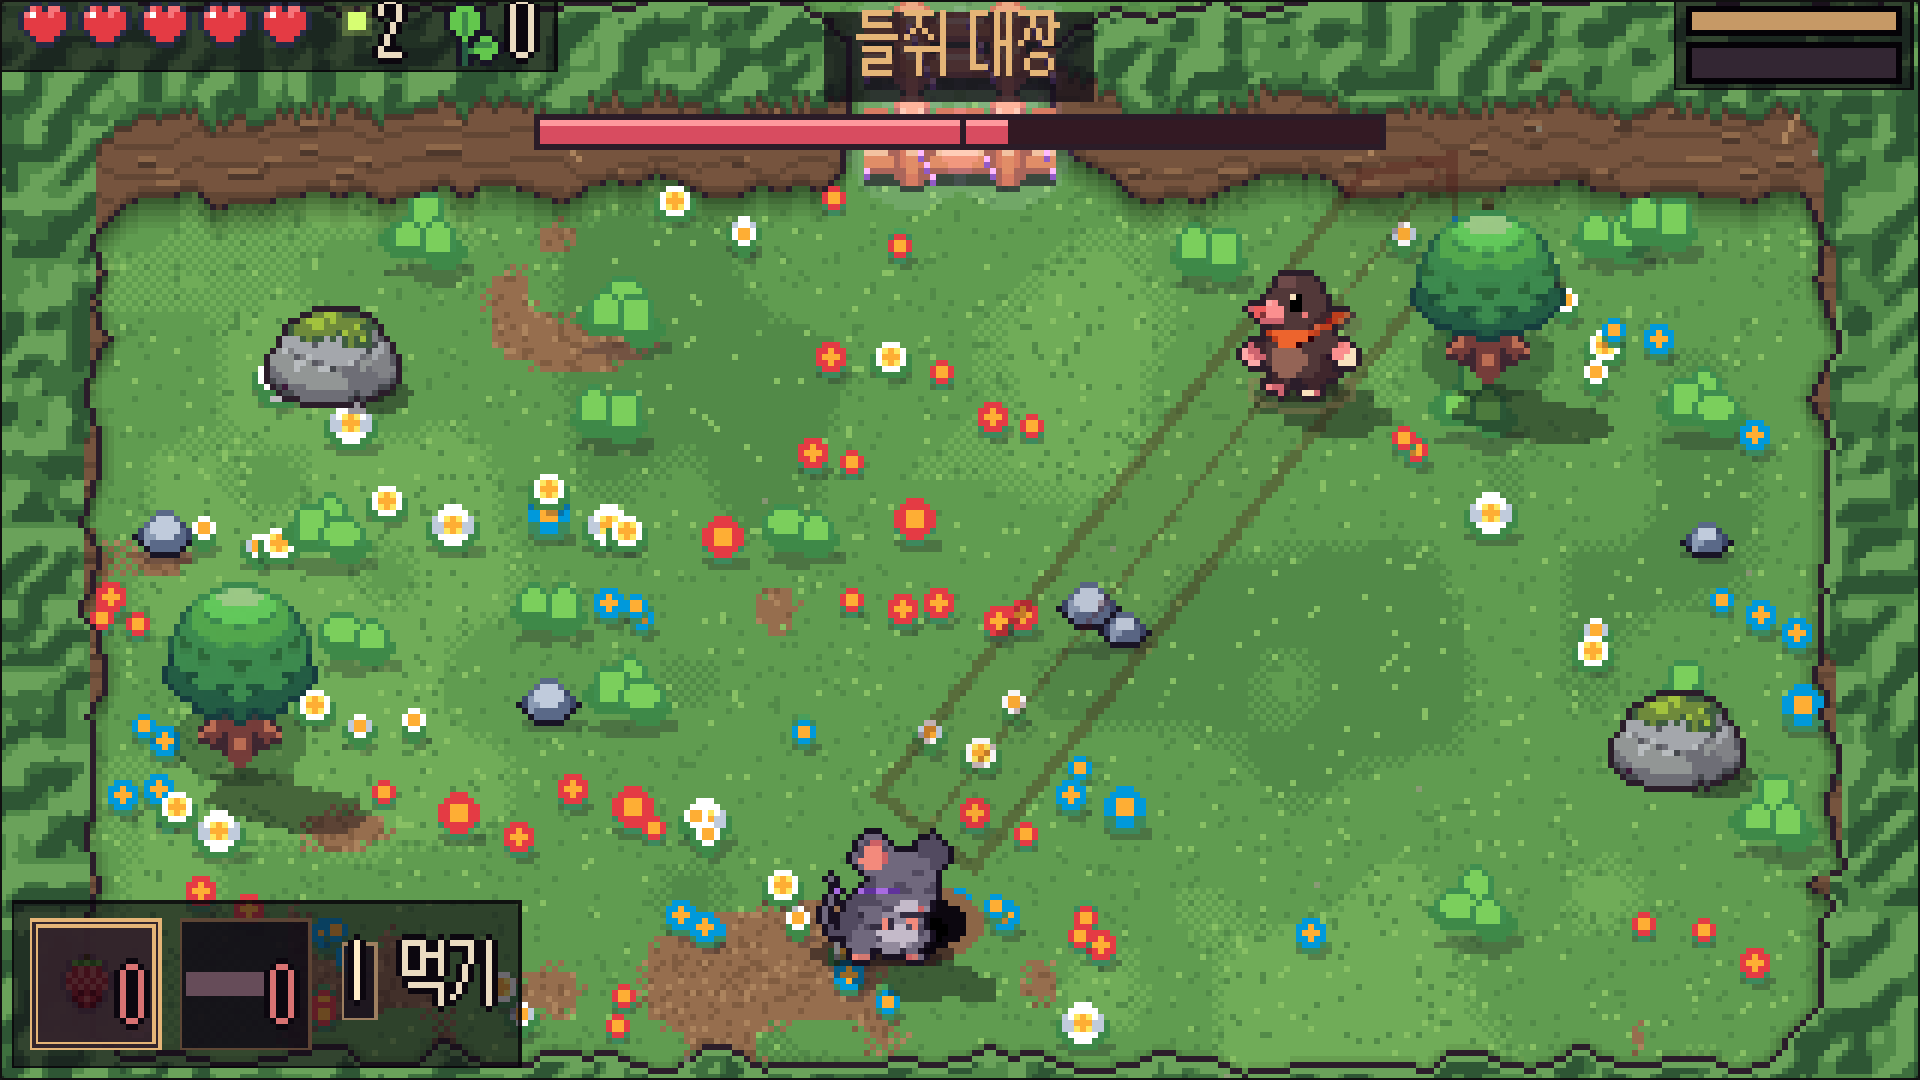
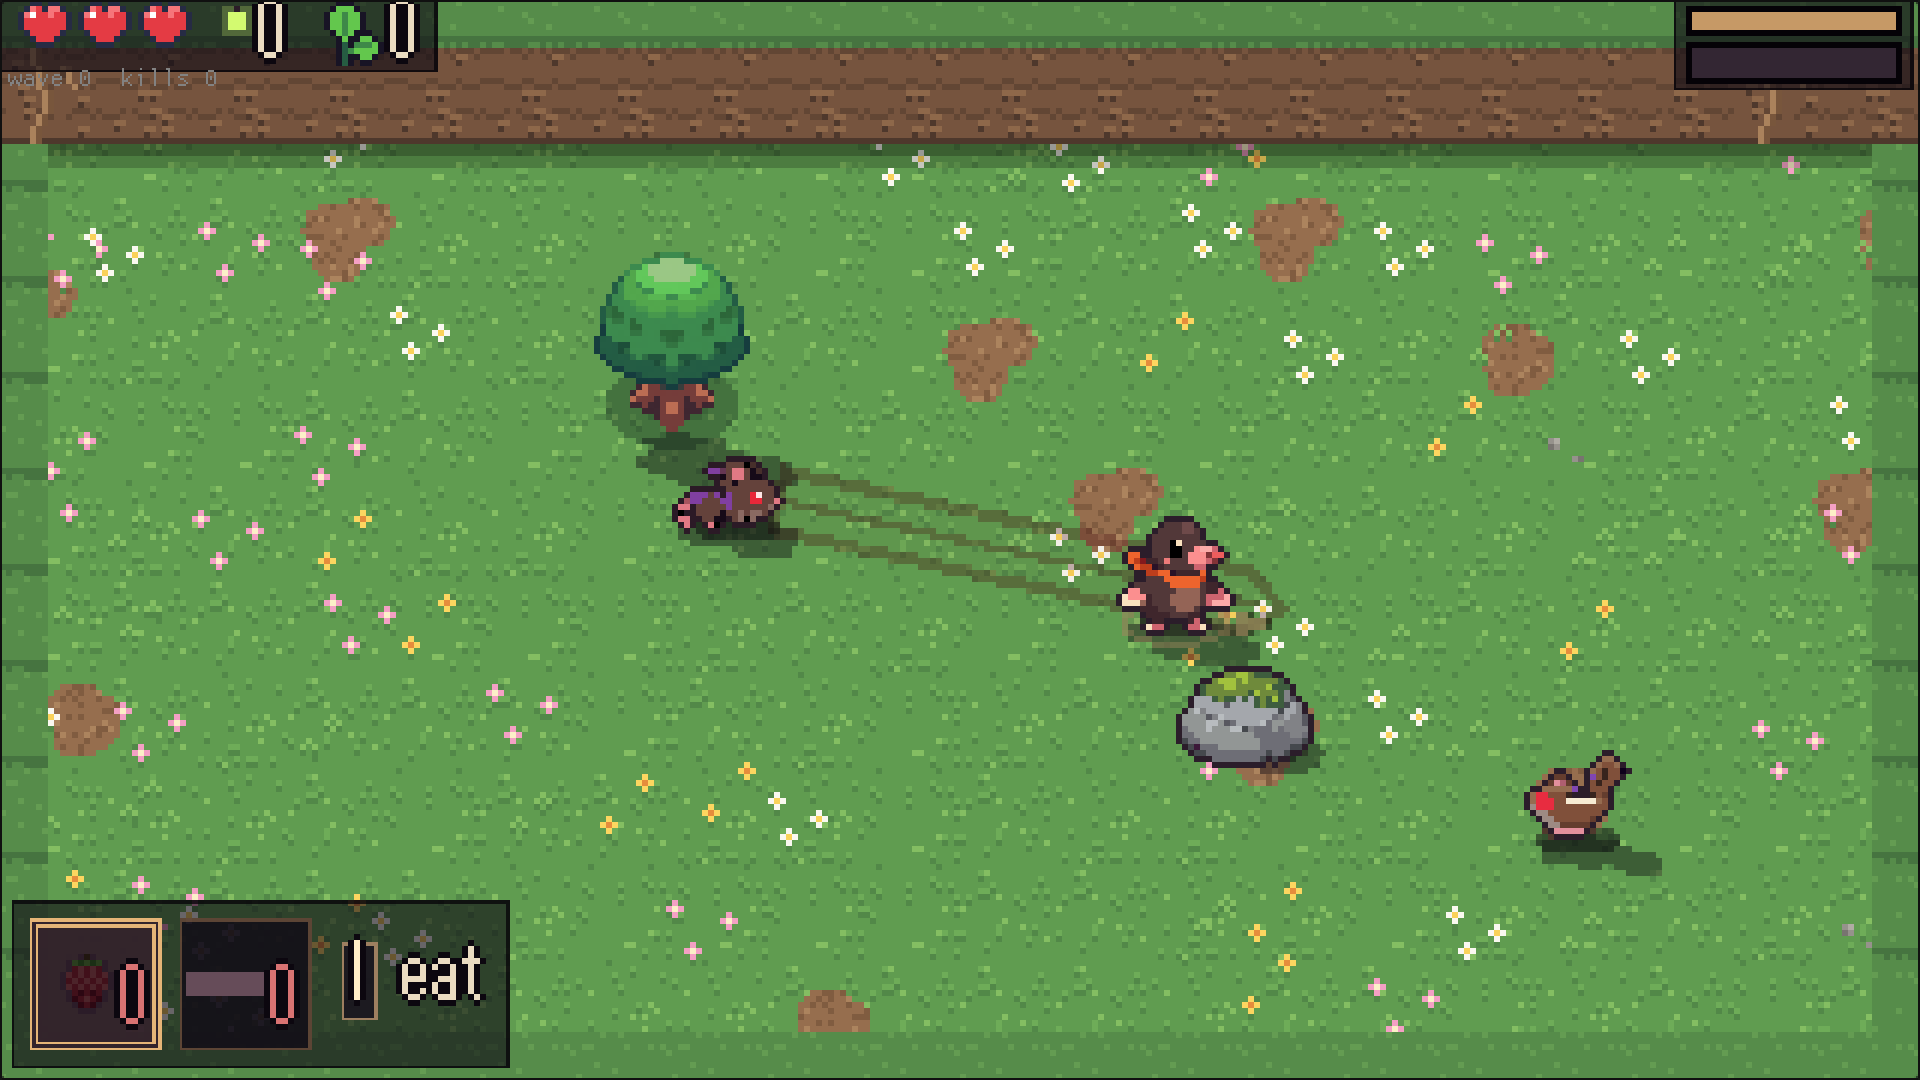
Epic 캐러셀 그림을 영어 화면으로(검토 반려 2026-11-13: 영어가 아닌 글): tools/store/shots_en.js(en-US로 개발 시나리오를 찍는다, 장면 이름으로 고름), 고른 원본 docs/epic/shots 여섯, epic_media.py가 그것으로 캐러셀(풀밭·넓은 방·콩이·마을·물길 굴·도토)

diff --git a/tools/store/shots_en.js b/tools/store/shots_en.js
@@ -1,0 +1,130 @@
+// 상점 캐러셀용 영어 스크린숏(Epic 검토 2026-11-13: 영어로 읽히지 않는 글이 든 캐러셀 그림은 받지 않는다).
+// 공식 페이지 스크린숏(tools/site/shots.js)은 한국어 화면이라 상점에 못 쓴다 — 같은 장면을 영어(en-US)로 다시 찍는다.
+//   cargo build --release --target wasm32-unknown-unknown      # 개발 기능(기본) + 팩(assets/vendor)이 있는 빌드
+//   python3 tools/web/assemble.py dist local dev
+//   node tools/store/shots_en.js dist <저장 폴더>
+// 장면마다 몇 장씩 찍는다. 고른 것을 docs/epic/shots/<이름>.png(960×540 = 게임 화면 3배)로 옮기고
+// python3 tools/store/epic_media.py 로 캐러셀(×2 = 1920×1080)을 만든다.
+// 개발 목록은 이름으로 고른다(src/scenario.rs LIST — 묶음 탭과 그 안의 자리를 읽는다, tools/test/smoke.js와 같은 방식).
+const { chromium } = require('playwright');
+const http = require('http');
+const fs = require('fs');
+const path = require('path');
+
+const DIST = path.resolve(process.argv[2] || 'dist');
+const OUT = path.resolve(process.argv[3] || 'shots-en');
+const PORT = 8131;
+const LOCALE = 'en-US';
+const MIME = { '.html': 'text/html; charset=utf-8', '.js': 'text/javascript', '.wasm': 'application/wasm', '.png': 'image/png',
+  '.ttf': 'font/ttf', '.mp3': 'audio/mpeg', '.ogg': 'audio/ogg', '.txt': 'text/plain; charset=utf-8',
+  '.webmanifest': 'application/manifest+json' };
+const base = 'nail-profile 1\nflag tutorial\nflag bori\nflag line.village_intro\n';
+// 다 자란 마을: 이웃 모두, 깬 수 4(잎 단계 4), 꾸미기 전부(tools/site/shots.js와 같은 기록).
+const full = base + 'flag momo\nflag doto_memory\nflag kongi\nflag half_ending\ncount clears.Mole 4\ncount momo_wins 3\n' +
+  [0, 1, 2, 3, 4, 5, 6, 7, 8].map((i) => `flag decor.${i}\n`).join('') + 'count glowbugs_banked 300\n';
+
+const DEV = (() => {
+  const src = fs.readFileSync(path.join(__dirname, '..', '..', 'src', 'scenario.rs'), 'utf8');
+  const all = src.slice(src.indexOf('pub const ALL'), src.indexOf('];', src.indexOf('pub const ALL')));
+  const cats = [...all.matchAll(/Cat::(\w+)/g)].map((m) => m[1]);
+  const list = src.slice(src.indexOf('pub const LIST'));
+  const seen = {}; const out = {};
+  for (const m of list.matchAll(/cat: Cat::(\w+),\s*name: "(.*?)"/g)) {
+    const c = cats.indexOf(m[1]); seen[c] = (seen[c] || 0); out[m[2]] = [c, seen[c]++];
+  }
+  return out;
+})();
+
+function serve() {
+  return new Promise((resolve) => {
+    const srv = http.createServer((req, res) => {
+      let p = decodeURIComponent(req.url.split('?')[0]);
+      if (p.endsWith('/')) p += 'index.html';
+      const file = path.join(DIST, p);
+      if (!file.startsWith(DIST) || !fs.existsSync(file) || fs.statSync(file).isDirectory()) { res.writeHead(404); res.end(); return; }
+      res.writeHead(200, { 'Content-Type': MIME[path.extname(file)] || 'application/octet-stream', 'Content-Length': fs.statSync(file).size });
+      fs.createReadStream(file).pipe(res);
+    });
+    srv.listen(PORT, '127.0.0.1', () => resolve(srv));
+  });
+}
+
+async function open(browser, prof) {
+  const ctx = await browser.newContext({ viewport: { width: 960, height: 540 }, locale: LOCALE });
+  await ctx.addInitScript((p) => {
+    try { if (!sessionStorage.getItem('x')) { sessionStorage.setItem('x', 1); localStorage.setItem('nail.profile', p); } } catch (e) {}
+  }, prof);
+  const page = await ctx.newPage();
+  await page.goto(`http://127.0.0.1:${PORT}/`, { waitUntil: 'load' });
+  await page.waitForFunction(() => document.getElementById('loading').classList.contains('done'), null, { timeout: 60000 });
+  await page.waitForTimeout(800);
+  await page.focus('#glcanvas');
+  const key = async (k, ms = 300) => { await page.keyboard.press(k); await page.waitForTimeout(ms); };
+  const hold = async (k, ms) => { await page.keyboard.down(k); await page.waitForTimeout(ms); await page.keyboard.up(k); await page.waitForTimeout(150); };
+  const shot = (name) => page.screenshot({ path: path.join(OUT, `${name}.png`) });
+  return { ctx, page, key, hold, shot };
+}
+
+// 타이틀 → 개발(첫 항목에서 위로 = 마지막 항목) → 묶음 탭(오른쪽) → 그 안의 줄(아래).
+async function dev(browser, name, prof = base, wait = 1800) {
+  const at = DEV[name];
+  if (!at) throw new Error(`개발 목록에 없다: ${name}`);
+  const s = await open(browser, prof);
+  await s.key('Enter', 600);
+  await s.key('ArrowUp', 250);
+  await s.key('Enter', 700);
+  for (let i = 0; i < at[0]; i++) await s.key('ArrowRight', 80);
+  for (let i = 0; i < at[1]; i++) await s.key('ArrowDown', 60);
+  await s.key('Enter', wait);
+  return s;
+}
+
+// 공격을 세 번씩 누르며 여러 장(예고·타격이 보이는 칸을 고른다).
+async function swings(s, name, n = 6) {
+  for (let i = 0; i < n; i++) {
+    await s.key('j', 90); await s.key('j', 90); await s.key('j', 40);
+    await s.shot(`${name}_${i}`); await s.page.waitForTimeout(300);
+  }
+}
+
+// 걸어 들어가 적이 다가오게 한 뒤 몇 장.
+async function walk(s, name, dir = 'ArrowRight') {
+  await s.hold(dir, 400); await s.page.waitForTimeout(1200);
+  for (let i = 0; i < 4; i++) { await s.shot(`${name}_${i}`); await s.page.waitForTimeout(900); }
+}
+
+(async () => {
+  fs.mkdirSync(OUT, { recursive: true });
+  const srv = await serve();
+  const browser = await chromium.launch({ args: ['--use-angle=swiftshader', '--enable-unsafe-swiftshader', '--ignore-gpu-blocklist'] });
+  const scenes = [
+    ['meadow', '환경: 꽃 핀 입구', walk],
+    ['roots', '실타래 굴: 뿌리', walk],
+    ['silk', '실타래 굴: 흰 실', walk],
+    ['water', '환경: 물길 굴', walk],
+    ['boss', '콩이', swings, true],
+    ['doto', '도토', swings, true],
+    ['hall', '넓은 방', swings],
+    ['mobs', '새 졸개 다섯', walk],
+  ];
+  const only = (process.env.ONLY || '').split(',').filter(Boolean);
+  for (const [name, entry, how, intro] of scenes) {
+    if (only.length && !only.includes(name)) continue;
+    const s = await dev(browser, entry);
+    if (intro) { await s.hold('Escape', 2500); await s.page.waitForTimeout(2500); } // 등장 컷씬은 뒤로를 길게 눌러 건너뛴다
+    await how(s, name);
+    await s.ctx.close();
+    console.log('done', name);
+  }
+  if (!only.length || only.includes('village')) { // 다 자란 마을: 들어설 때 한마디를 건너뛰고(뒤로 길게) 위로 걷는다.
+    const s = await dev(browser, '마을', full, 2500);
+    await s.hold('Escape', 2500); await s.page.waitForTimeout(1200);
+    await s.hold('ArrowUp', 700); await s.shot('village_0');
+    await s.hold('ArrowUp', 900); await s.shot('village_1');
+    await s.hold('ArrowLeft', 600); await s.shot('village_2');
+    await s.ctx.close();
+    console.log('done village');
+  }
+  await browser.close();
+  srv.close();
+})();

diff --git a/tools/store/epic_media.py b/tools/store/epic_media.py
@@ -28,8 +28,10 @@ CREAM = (236, 229, 218, 255)
 GLOW = (242, 205, 92, 255)
 INK = (23, 19, 15, 255)
 
-# 상점 캐러셀에 넣을 스크린숏(공식 페이지의 960×540 = 게임 320×180의 3배 → 2배 하면 1920×1080)
-CAROUSEL = ["s_meadow", "s_roots", "s_boss", "s_village", "s_silk", "s_hall"]
+# 상점 캐러셀에 넣을 스크린숏: 영어 화면(Epic은 영어로 읽히지 않는 글이 든 그림을 받지 않는다 — 검토 2026-11-13).
+# tools/store/shots_en.js로 찍어 고른 것(960×540 = 게임 320×180의 3배 → 2배 하면 1920×1080). 공식 페이지의 s_*.png는 한국어라 쓰지 않는다.
+EN_SHOTS = ROOT / "docs" / "epic" / "shots"
+CAROUSEL = ["meadow", "hall", "boss", "village", "water", "doto"]
 
 
 def text_layer(text: str, px: int, color, outline=INK, bold: bool = True) -> Image.Image:
@@ -102,7 +104,7 @@ def main() -> None:
 
     # 캐러셀: 스크린숏 ×2 = 1920×1080
     for i, name in enumerate(CAROUSEL, 1):
-        up(Image.open(SHOTS / f"{name}.png").convert("RGB"), 2).save(OUT / f"carousel-{i}-{name[2:]}.png", optimize=True)
+        up(Image.open(EN_SHOTS / f"{name}.png").convert("RGB"), 2).save(OUT / f"carousel-{i}-{name}.png", optimize=True)
 
     # 소셜 미리보기: 타이틀 그림 왼쪽(굴 속 나일) 300×300 ×4 = 1200×1200, 작은 로고
     soc = up(title.crop((0, 60, 300, 360)), 4)

diff --git a/docs/epic/store-text.md b/docs/epic/store-text.md
@@ -20,7 +20,7 @@
 | `product-logo-960x540.png` | 960×540 PNG ≤1MB, 투명 | Store Settings → Product configuration → Product details |
 | `offer-landscape-2560x1440.png` | 2560×1440 | Offers → Images: 일반(general) + 라이브러리(library) — "copy"로 같은 그림을 써도 된다 |
 | `offer-portrait-1200x1600.png` | 1200×1600 | 같은 곳(가로·세로 하나씩 필수) |
-| `carousel-1…6-*.png` | 1920×1080 ≤4MB | Pages → Product home → Media carousel(최소 1개, 영상 1개를 권장) |
+| `carousel-1…6-*.png` | 1920×1080 ≤4MB | Pages → Product home → Media carousel(최소 1개, 영상 1개를 권장) — **영어 화면만**(아래) |
 | `social-1200x1200.jpg` | 1200×1200 JPG | Pages → Social preview(선택) |
 
 
@@ -105,4 +105,5 @@ About 칸 그림은 폭 700px 이상이면 되므로 캐러셀 그림을 다시 
     캐릭터 스프라이트·초상화·일러스트는 Google Gemini 이미지 모델로 그린 원본을 도트로 옮겨 손으로 다듬은 것입니다.
 
 ## 페이지 → Media carousel (필수: 1개 이상, 1920×1080)
-순서대로 `carousel-1-meadow` → `2-roots` → `3-boss` → `4-village` → `5-silk` → `6-hall`. Epic은 영상 하나를 권한다(1920×1080 MP4, 30·60fps, ≤300MB, AAC 스테레오 48kHz) — 트레일러는 따로.
+순서대로 `carousel-1-meadow` → `2-hall` → `3-boss` → `4-village` → `5-water` → `6-doto`.
+**게임 화면은 영어로**(Epic 검토 2026-11-13 반려: "Media Carousel 그림에 영어가 아닌 글" — 처음엔 한국어 공식 페이지 스크린숏을 썼다). 원본은 `docs/epic/shots/*.png`(960×540, `tools/store/shots_en.js`가 en-US로 찍은 것에서 고름) → `epic_media.py`가 ×2. 다른 언어 화면을 보이고 싶으면 그 언어의 현지화(Localization) 페이지에만 넣는다. Epic은 영상 하나를 권한다(1920×1080 MP4, 30·60fps, ≤300MB, AAC 스테레오 48kHz) — 트레일러는 따로.
